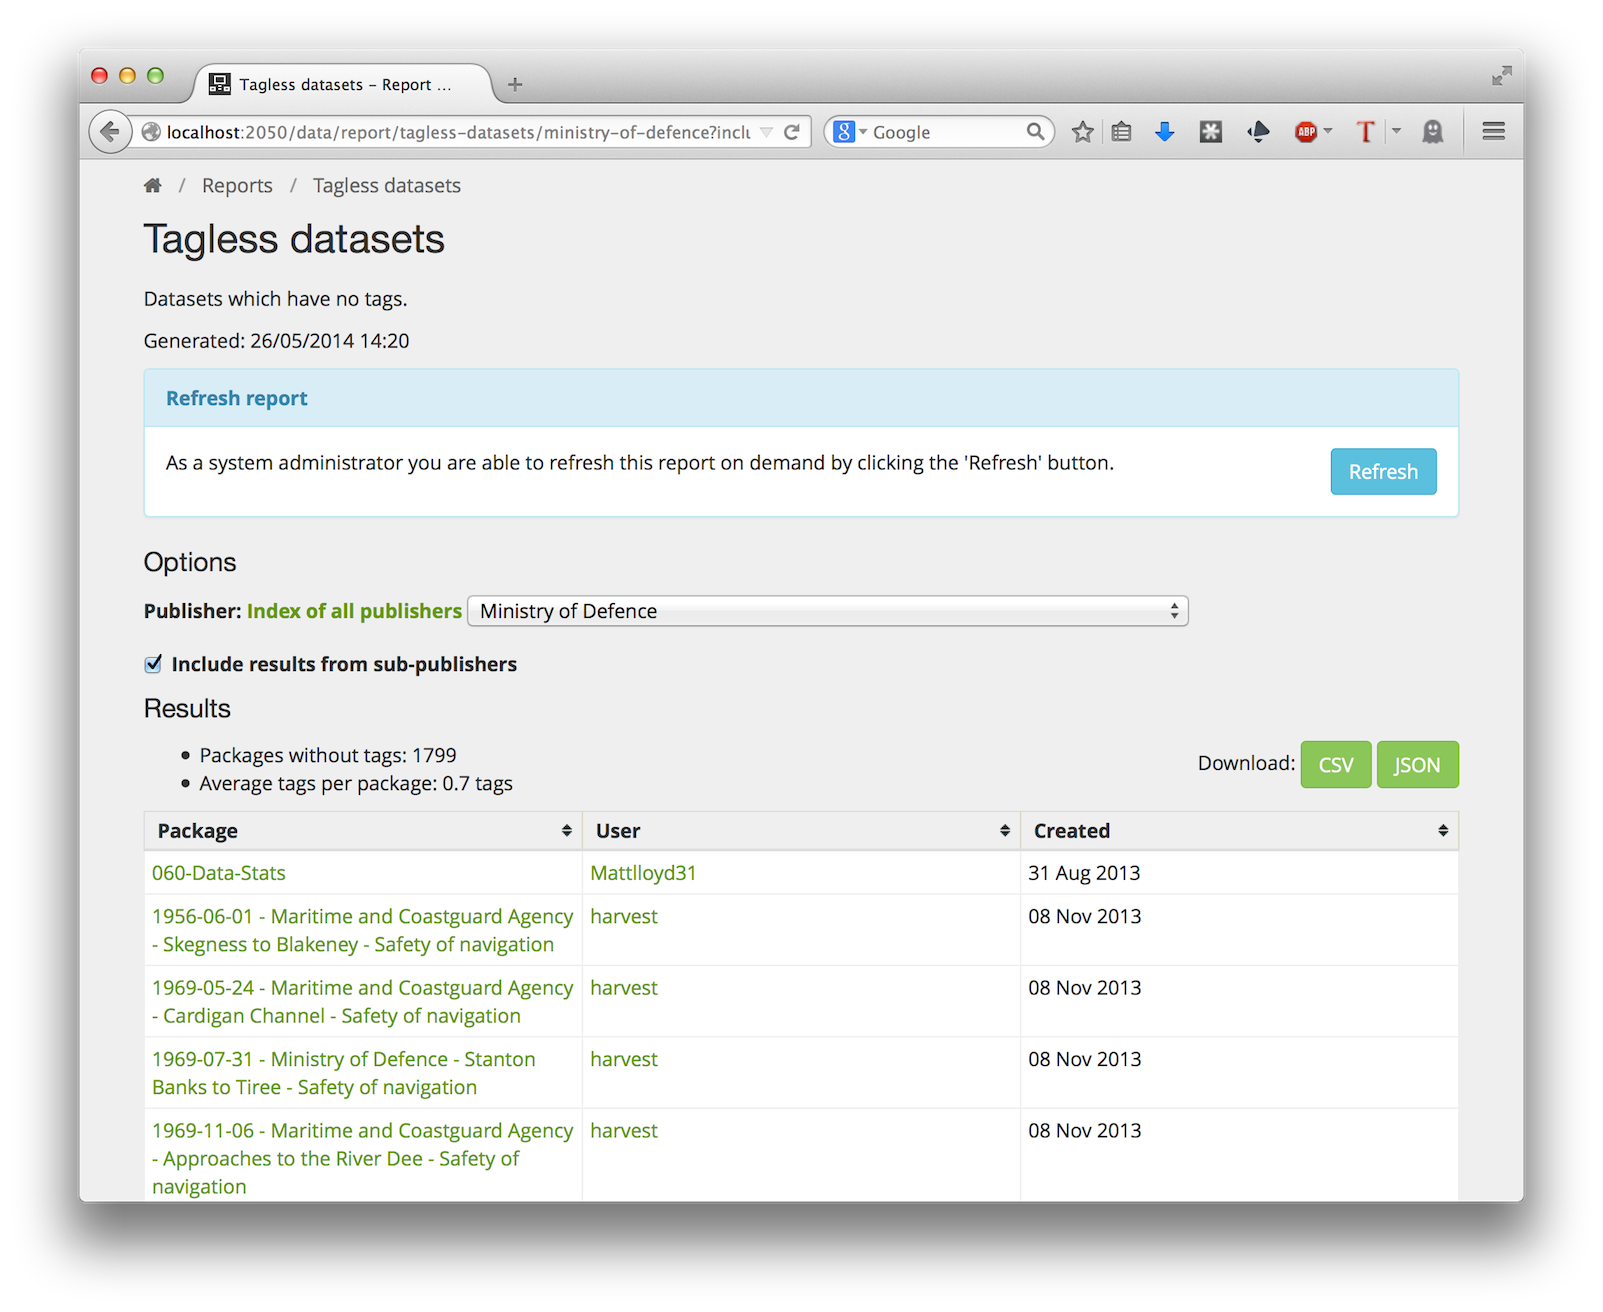
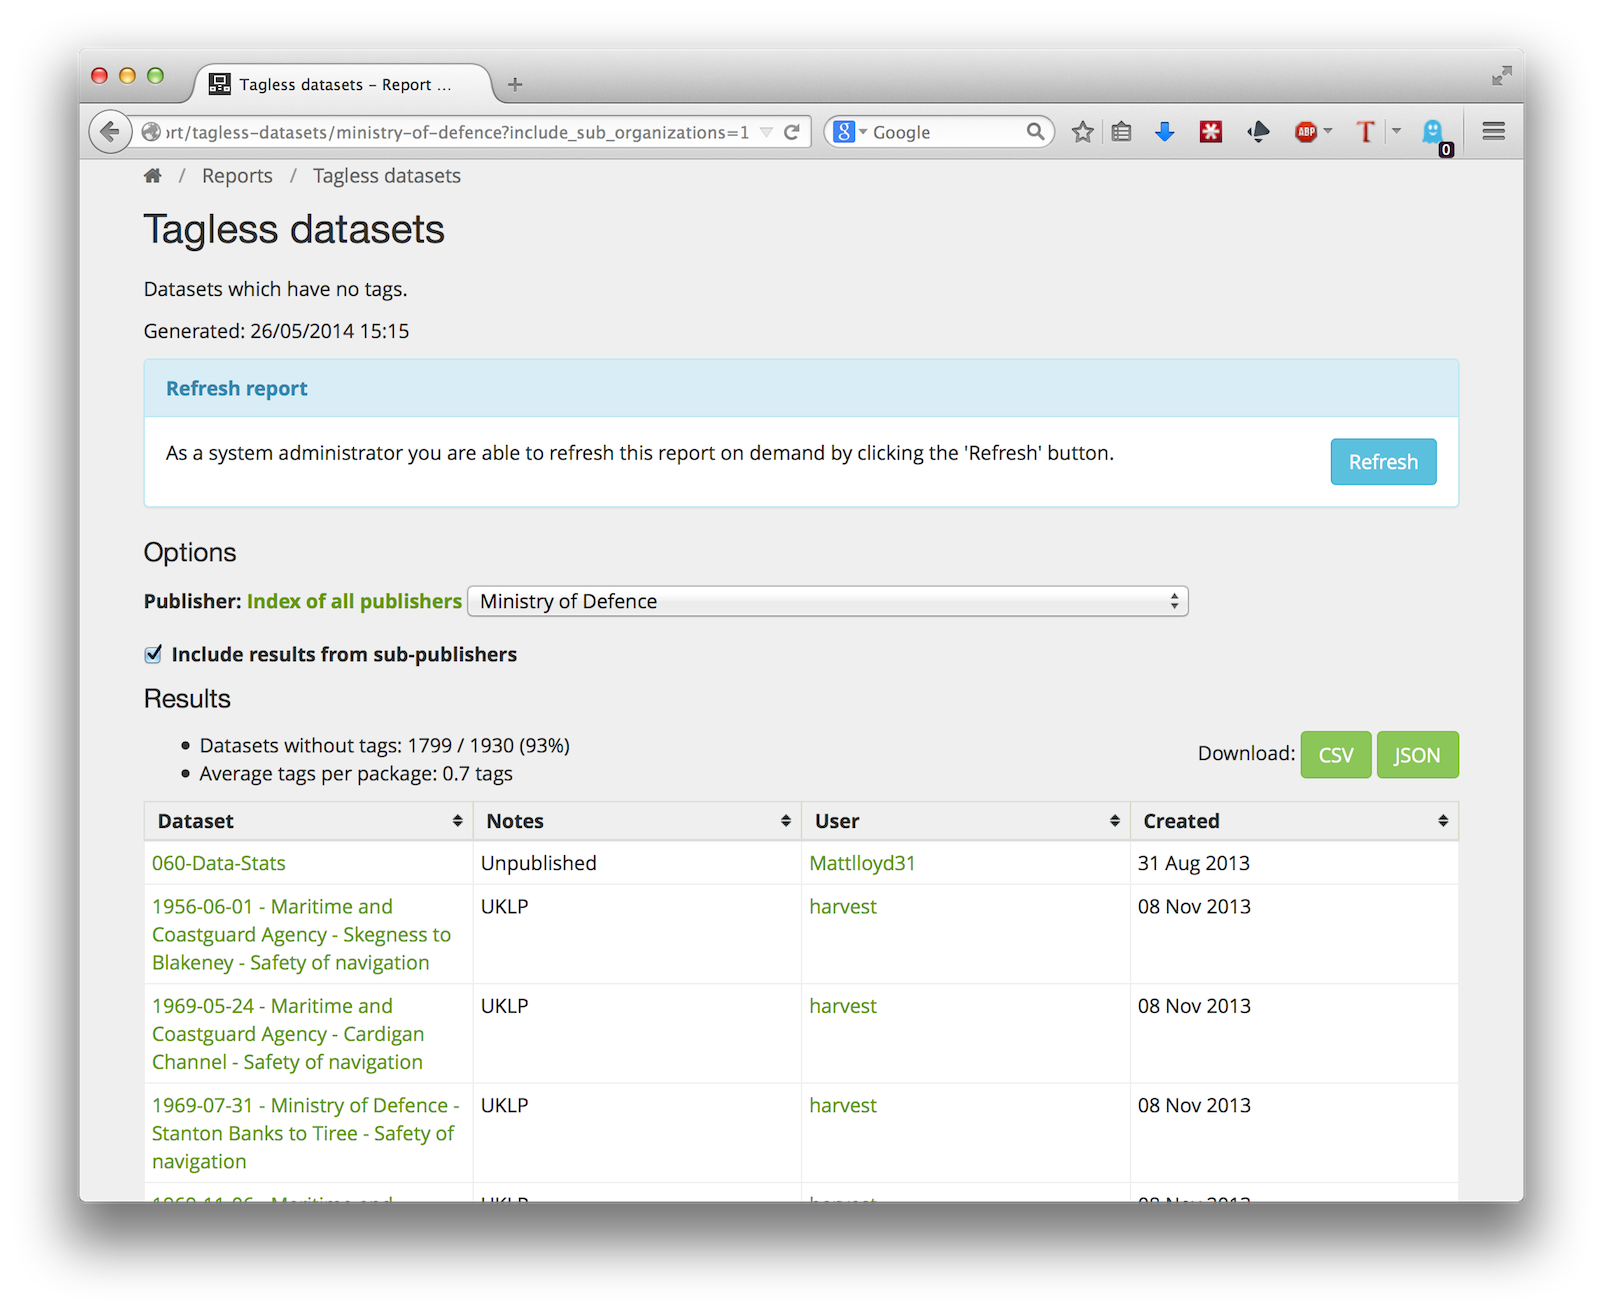
Added dataset notes column to demo.

diff --git a/ckanext/report/templates/report/tagless-datasets.html b/ckanext/report/templates/report/tagless-datasets.html
@@ -2,14 +2,15 @@
   xmlns:i18n="http://genshi.edgewall.org/i18n"
   xmlns:xi="http://www.w3.org/2001/XInclude">
 <ul>
-    <li>Packages without tags: ${len(c.data['table'])}</li>
+    <li>Datasets without tags: ${len(c.data['table'])} / ${c.data['num_packages']} (${c.data['packages_without_tags_percent']}%)</li>
     <li>Average tags per package: ${c.data['average_tags_per_package']} tags</li>
 </ul>
 
 <table class="table table-bordered table-condensed tablesorter" id="report-table" style="width: 100%; table-layout:fixed; margin-top: 8px;">
     <thead>
       <tr>
-        <th>Package</th>
+        <th>Dataset</th>
+        <th>Notes</th>
         <th>User</th>
         <th>Created</th>
       </tr>
@@ -22,6 +23,7 @@
               ${row['title']}
             </a>
           </td>
+          <td>${row['notes']}</td>
           <td>${h.linked_user(row['user'])}</td>
           <td>${h.render_datetime(row['created'])}</td>
         </tr>

diff --git a/ckanext/report/reports.py b/ckanext/report/reports.py
@@ -11,10 +11,13 @@ def tagless_report(organization, include_sub_organizations=False):
     '''
     Produces a report on packages without tags.
     Returns something like this:
-        {'table': [
-            {'name': 'river-levels', 'title': 'River levels', 'user': 'bob', 'created': '2008-06-13T10:24:59.435631'},
-            {'name': 'co2-monthly', 'title' 'CO2 monthly', 'user': 'bob', 'created': '2009-12-14T08:42:45.473827'},
-            ]
+        {
+         'table': [
+            {'name': 'river-levels', 'title': 'River levels', 'notes': 'Harvested', 'user': 'bob', 'created': '2008-06-13T10:24:59.435631'},
+            {'name': 'co2-monthly', 'title' 'CO2 monthly', 'notes': '', 'user': 'bob', 'created': '2009-12-14T08:42:45.473827'},
+            ],
+         'num_packages': 56,
+         'packages_without_tags_percent': 4,
          'average_tags_per_package': 3.5,
         }
     '''
@@ -25,9 +28,10 @@ def tagless_report(organization, include_sub_organizations=False):
     if organization:
         q = lib.filter_by_organizations(q, organization,
                                         include_sub_organizations)
-    pkgs = [OrderedDict((
+    tagless_pkgs = [OrderedDict((
             ('name', pkg.name),
             ('title', pkg.title),
+            ('notes', lib.dataset_notes(pkg)),
             ('user', pkg.creator_user_id),
             ('created', pkg.metadata_created.isoformat()),
             )) for pkg in q.all()]
@@ -42,9 +46,12 @@ def tagless_report(organization, include_sub_organizations=False):
         average_tags_per_package = round(float(num_taggings) / num_packages, 1)
     else:
         average_tags_per_package = None
+    packages_without_tags_percent = lib.percent(len(tagless_pkgs), num_packages)
 
     return {
-        'table': pkgs,
+        'table': tagless_pkgs,
+        'num_packages': num_packages,
+        'packages_without_tags_percent': packages_without_tags_percent,
         'average_tags_per_package': average_tags_per_package,
         }
 

diff --git a/README.md b/README.md
@@ -94,13 +94,13 @@ The returned data should be a dict like this:
 
 ```javascript
 {
-  'table': [
-    {'tag': 'history', 'count': 12, 'user': 'bob', 'created': '2008-06-13T10:24:59.435631'},
-    {'tag': 'science', 'count': 4, 'user': 'bob', 'created': '2009-12-14T08:42:45.473827'},
-    {'tag': 'geography', 'count': 5, 'user': 'bob', 'created': '2012-01-02T16:34:24.958284'}
-    ]
-  'total_tags_used': 21,
-  'last_added': '2014-04-13T20:40:20.123456'
+    'table': [
+        {'name': 'river-levels', 'title': 'River levels', 'notes': 'Harvested', 'user': 'bob', 'created': '2008-06-13T10:24:59.435631'},
+        {'name': 'co2-monthly', 'title' 'CO2 monthly', 'notes': '', 'user': 'bob', 'created': '2009-12-14T08:42:45.473827'},
+    ],
+    'num_packages': 56,
+    'packages_without_tags_percent': 4,
+    'average_tags_per_package': 3.5,
 }
 ```
   
@@ -120,7 +120,7 @@ The report template will probably display the incidental data and then the table
 
 ```html
 <ul>
-    <li>Packages without tags: ${len(c.data['table'])}</li>
+    <li>Datasets without tags: ${len(c.data['table'])} / ${c.data['num_packages']} (${c.data['packages_without_tags_percent']}%)</li>
     <li>Average tags per package: ${c.data['average_tags_per_package']} tags</li>
 </ul>
 
@@ -129,6 +129,7 @@ The report template will probably display the incidental data and then the table
       <tr>
         <th>Package</th>
         <th>User</th>
+        <th>Notes</th>
         <th>Created</th>
       </tr>
     </thead>
@@ -140,6 +141,7 @@ The report template will probably display the incidental data and then the table
               ${row['title']}
             </a>
           </td>
+          <td>${row['notes']}</td>
           <td>${h.linked_user(row['user'])}</td>
           <td>${h.render_datetime(row['created'])}</td>
         </tr>
